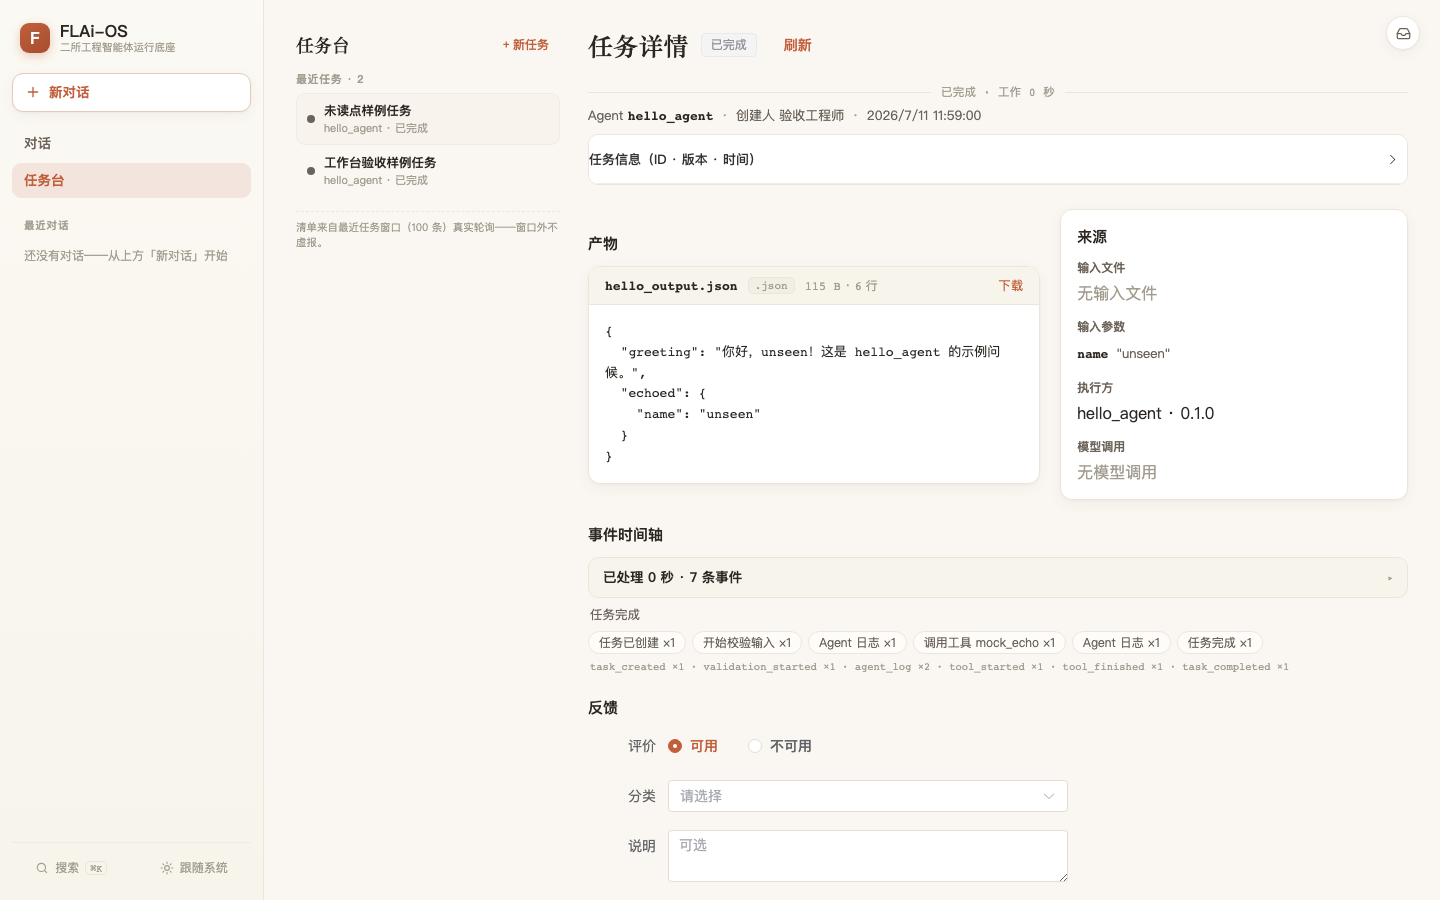
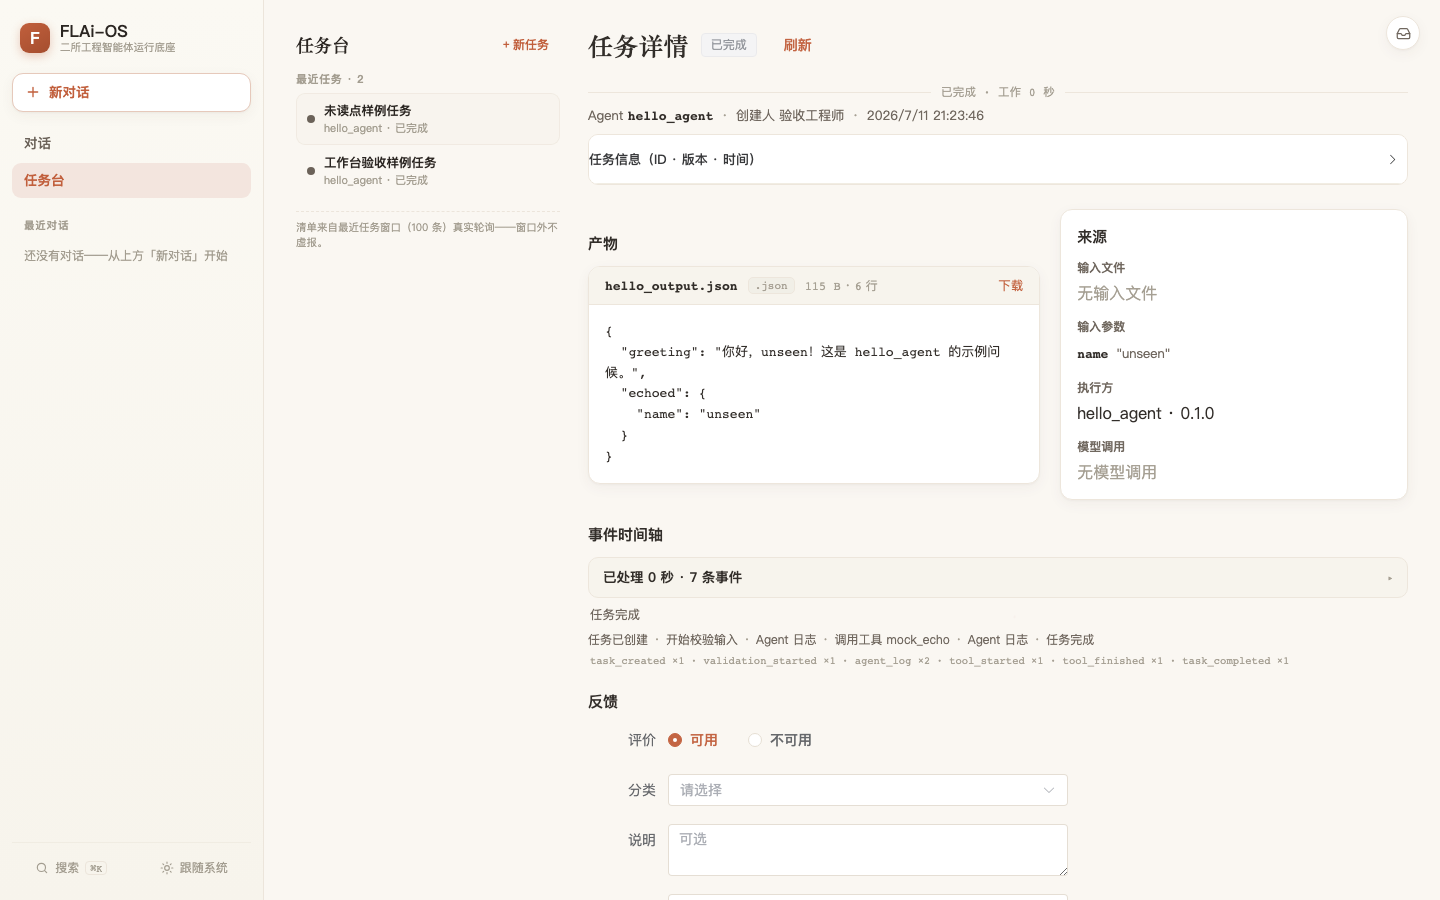
refine(ui): W13/W14 新拉片经验注入——工具聚合行证伪修正 + 暗色主题探针咬合
agent-ui-design W13 桌面证伪轮 + W14 CLI 轮新经验逐条裁决（采纳二/
已对齐一/不搬一/持有一，裁决表在 review record）：

- WorkLog 工具聚合 chips → 灰色纯文字聚合行：W13 实机证伪——Codex
  真实语言是纯文字行非徽章 chip；聚合逻辑零动只降视觉噪音，mock
  amber 徽（诚实标注）保留贴对应工具旁。
- m8_workbench 增⑥暗色颜色级探针（10 断言）：画布 --page-bg 暗值 +
  completed 到席灯 --ink-soft 暗值——「保亮度换色相钻过快照，色相轴
  必须探针」（W13 盲区方法学）；暗色 token 块从零断言补到真咬合，
  信任色锁「completed 不给绿」两主题双咬。
- 不搬项有记录：TUI ⏺/⎿ 悬挂语法不跨 shell 进 GUI（kit9 范式差教训）；
  暗色气泡明度方向持有待 kit9 defer 裁决。

验证：verify_all 八步门全绿 + m8_workbench 单独重跑 10/10 逐断言实证。
confidence: high

diff --git a/frontend/src/components/WorkLog.vue b/frontend/src/components/WorkLog.vue
@@ -21,10 +21,13 @@
     <!-- 过去式摘要：终态/审核事件优先，否则退化为最后一条事件消息。 -->
     <div v-if="summaryText" class="worklog-summary">{{ summaryText }}</div>
 
-    <!-- 聚合 chips：折叠态也常显。 -->
-    <div v-if="chips.length" class="worklog-chips">
-      <span v-for="c in chips" :key="c.key" class="worklog-chip">
-        {{ c.label }} ×{{ c.count }}
+    <!-- 工具聚合行（W13 实机证伪修正）：Codex 真实语言=灰色纯文字聚合行，
+         非徽章 chip——聚合逻辑不变，只降视觉噪音；mock 徽是诚实标注（amber
+         信任语言）保留贴在对应工具旁。折叠态也常显。 -->
+    <div v-if="chips.length" class="worklog-toolline">
+      <span v-for="(c, i) in chips" :key="c.key" class="worklog-tool">
+        <span v-if="i > 0" class="worklog-tool-sep" aria-hidden="true">·</span>
+        {{ c.label }}<template v-if="c.count > 1"> ×{{ c.count }}</template>
         <span v-if="c.mock" class="pill-amber">mock</span>
       </span>
     </div>
@@ -269,23 +272,24 @@ const rawLine = computed(() => {
   margin-top: 8px;
   padding-left: 2px;
 }
-.worklog-chips {
+.worklog-toolline {
   display: flex;
   flex-wrap: wrap;
-  gap: 6px;
-  margin-top: 8px;
-}
-.worklog-chip {
-  display: inline-flex;
   align-items: center;
-  gap: 4px;
+  column-gap: 6px;
+  row-gap: 2px;
+  margin-top: 8px;
   font-size: 12px;
   color: var(--ink-soft);
-  background: var(--paper-surface);
-  border: 1px solid var(--hairline);
-  border-radius: 999px;
-  padding: 2px 10px;
+}
+.worklog-tool {
+  display: inline-flex;
+  align-items: center;
+  gap: 6px;
   white-space: nowrap;
+}
+.worklog-tool-sep {
+  color: var(--ink-faint);
 }
 .worklog-rawline {
   margin-top: 6px;

diff --git a/frontend/e2e/m8_workbench_acceptance.py b/frontend/e2e/m8_workbench_acceptance.py
@@ -12,7 +12,9 @@
   ③ 点任务行 → URL /tasks/:id + 中栏「任务详情」叙事流（TaskDetail 复用，
      m2 全部详情契约由 m2_acceptance 继续把守）；
   ④ 任务视图导航高亮归属「任务台」；
-  ⑤ /portal 深链仍可达（门户降级为 composer 选择器后不失联）。
+  ⑤ /portal 深链仍可达（门户降级为 composer 选择器后不失联）；
+  ⑥ 暗色主题颜色级探针：画布 token 翻转 + completed 到席灯中性墨暗值
+     （信任色锁在暗色下同样咬合——色相轴快照失聪，必须探针）。
 
 运行（仓根）：
   cd frontend && npm run build && cd ..
@@ -191,6 +193,20 @@ with sync_playwright() as p:
     page.goto(BASE + "/portal", wait_until="networkidle")
     portal_ok = "Agent" in page.locator("body").inner_text()
     check("⑤/portal 深链仍可达（门户降级不失联）", portal_ok)
+
+    # ── ⑥ 暗色主题颜色级探针（美化批「夜航图纸」）：色相轴快照失聪，必须探针
+    # 咬合（W13 方法学）。theme 默认跟随系统 → color_scheme=dark 即入暗色。──
+    dark = browser.new_page(viewport={"width": 1440, "height": 900}, color_scheme="dark")
+    dark.goto(BASE + "/tasks", wait_until="networkidle")
+    dark.wait_for_selector(".cl-item", timeout=5000)
+    # 画布翻转真生效：--page-bg 暗值 #211d19
+    expect(dark.locator("body")).to_have_css("background-color", "rgb(33, 29, 25)", timeout=5000)
+    # 信任色锁暗色同样咬合：completed 到席灯=中性墨暗值 --ink-soft #b0a698，仍不给绿
+    drow = dark.locator(".cl-item", has_text="工作台验收样例任务").first
+    expect(drow.locator(".cl-lamp")).to_have_css("background-color", "rgb(176, 166, 152)", timeout=8000)
+    check("⑥暗色主题探针：画布翻转 + completed 到席灯中性墨暗值（不给绿）", True)
+    dark.screenshot(path=str(SHOTS / "4_console_dark.png"))
+    dark.close()
 
     browser.close()
 

diff --git a/docs/reviews/BEAUTIFY-review-record.md b/docs/reviews/BEAUTIFY-review-record.md
@@ -40,9 +40,23 @@
   clay 锚保持、到席灯语义色暗底可辨、空态插画浅线稿暗底可读（无需重画）；
 - IntentGlyph 构建独立验证 ×2（Codex 自跑 vite build）。
 
+## 追批：W13/W14 新拉片经验注入（同日）
+
+agent-ui-design W13 桌面证伪轮 + W14 CLI 轮（memory 2026-07-11 更新）逐条裁决：
+
+| 经验 | 裁决 | 落地 |
+|------|------|------|
+| W13 证伪「工具聚合 chips」——Codex 真实=灰色纯文字聚合行 | **采纳** | WorkLog 徽章 chip → .worklog-toolline 纯文字行（聚合逻辑零动；mock amber 徽=诚实标注保留贴对应工具旁） |
+| W13 盲区方法学：保亮度换色相钻过快照，色相轴必须探针 | **采纳** | m8_workbench 增⑥暗色探针：画布 --page-bg 暗值 + completed 到席灯 --ink-soft 暗值颜色级断言——暗色块从零断言补到有咬合 |
+| W13 时态双态（过去式纯灰零图标 vs 现在时+星标） | 已对齐 | WorkLog 现状核对通过（work-pulse-dot 进行时 / 纯文字过去式摘要），零改动 |
+| CLI ⏺/⎿ 悬挂缩进、✻ 俏皮盖章、模式循环色 | **不搬** | TUI 单画布语法不跨 shell 搬进 GUI（kit9 教训「GUI 分层 vs TUI 单画布=范式差」）；盖章已用 Codex 桌面式横线 |
+| kit9 defer：Claude 暗色气泡实测比画布暗（与三档暗阶反向，两源未裁决） | **持有** | 本仓暗色气泡亮于画布（常规做法）；等 kit 裁决后再议，不跟未决证据摇摆 |
+
 ## 遗留
 
 - 亮色 --ink-faint 2.52:1 既有对比度债（本批只修了暗色）；
 - categoryColor/LEVEL_COLOR JS hex 暗色截图复核通过，token 化递延；
 - particleField.js 零调用方（死代码），未投资暗色适配；
-- Codex MCP server 仍超时（本批全程走 codex exec CLI，通路稳定）。
+- Codex MCP server 仍超时（本批全程走 codex exec CLI，通路稳定；
+  后台 dispatch 必须 `< /dev/null`——开放 stdin 会挂住等输入）；
+- 暗色气泡明度方向：持有亮于画布，挂 kit9 defer 裁决。
